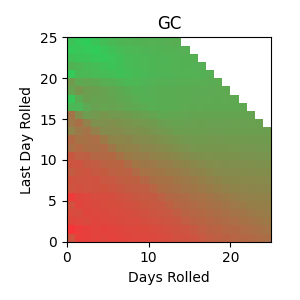
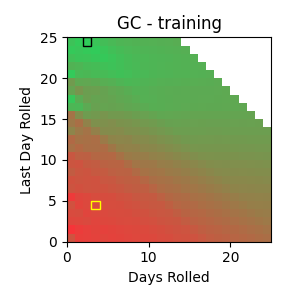
modified images

diff --git a/plot_MVO.py b/plot_MVO.py
@@ -53,6 +53,8 @@ def show_code_plot(code, df):
 
 multi_df = pd.read_csv('Multi_day_MV_testing.csv', index_col=0)
 
+training_df = pd.read_csv('Multi_day_MV_training.csv', index_col=0)
+
 com_codes = multi_df.columns.tolist()
 for com in com_codes:
     ax2 = show_code_plot(com, multi_df)
@@ -60,7 +62,27 @@ for com in com_codes:
     ax2.set_ylim(0,25)
     ax2.set_xlabel("Days Rolled", fontsize=10)
     ax2.set_ylabel("Last Day Rolled", fontsize=10)
-    ax2.set_title("{}".format(com))
+    ax2.set_title("{} - {}".format(com, "testing"))
+
+    split = training_df['{}'.format(com)]
+    split = split[split != 0]
+    MVO_max = split.idxmax()
+    [x, y] = MVO_max.split('-')
+
+    ax2.add_patch(patches.Rectangle(
+        (int(x)-1, int(y)-1), 
+        1, 
+        1,
+        fill=False,
+        ec='black'))
+
+    ax2.add_patch(patches.Rectangle(
+        (4-1, 5-1), 
+        1, 
+        1,
+        fill=False,
+        ec='yellow'))
+
     plt.tight_layout()
     plt.savefig('{}\{}'.format("Images_testing", com))
     plt.close()
